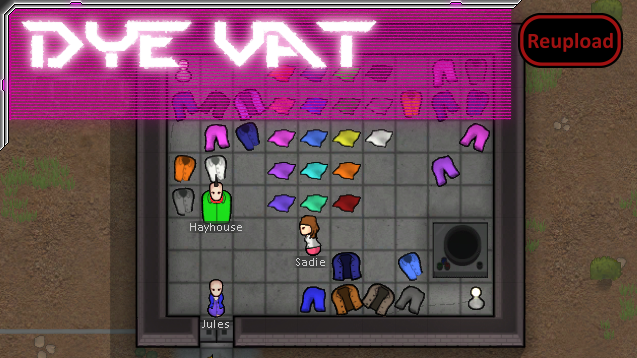
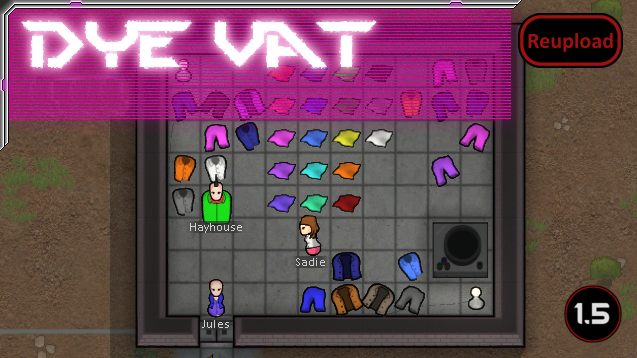
Mod updated for 1.5 and passed autotests

Changed region(s): [[0.865, 0.7989, 0.9843, 0.9832]]

diff --git a/Source/GT_Utilities/CompProperties_GTReplaceThing.cs b/Source/GT_Utilities/CompProperties_GTReplaceThing.cs
@@ -4,7 +4,7 @@ namespace GT_Utilities;
 
 public class CompProperties_GTReplaceThing : CompProperties
 {
-    public bool replaceInstantly = true;
+    public readonly bool replaceInstantly = true;
 
     public IntRange replaceIntervalRange = new IntRange(10, 100);
 

diff --git a/README.md b/README.md
@@ -65,10 +65,13 @@ https://ludeon.com/forums/index.php?topic=5509.0]Forum
 
 -  See if the the error persists if you just have this mod and its requirements active.
 -  If not, try adding your other mods until it happens again.
--  Post your error-log using https://steamcommunity.com/workshop/filedetails/?id=818773962]HugsLib and command Ctrl+F12
+-  Post your error-log using https://steamcommunity.com/workshop/filedetails/?id=818773962]HugsLib or the standalone https://steamcommunity.com/sharedfiles/filedetails/?id=2873415404]Uploader and command Ctrl+F12
 -  For best support, please use the Discord-channel for error-reporting.
 -  Do not report errors by making a discussion-thread, I get no notification of that.
 -  If you have the solution for a problem, please post it to the GitHub repository.
+-  Use https://github.com/RimSort/RimSort/releases/latest]RimSort to sort your mods
 
 
+
+https://steamcommunity.com/sharedfiles/filedetails/changelog/2622089950]![Image](https://img.shields.io/github/v/release/emipa606/DyeVat?label=latest%20version&style=plastic&color=9f1111&labelColor=black)
 
